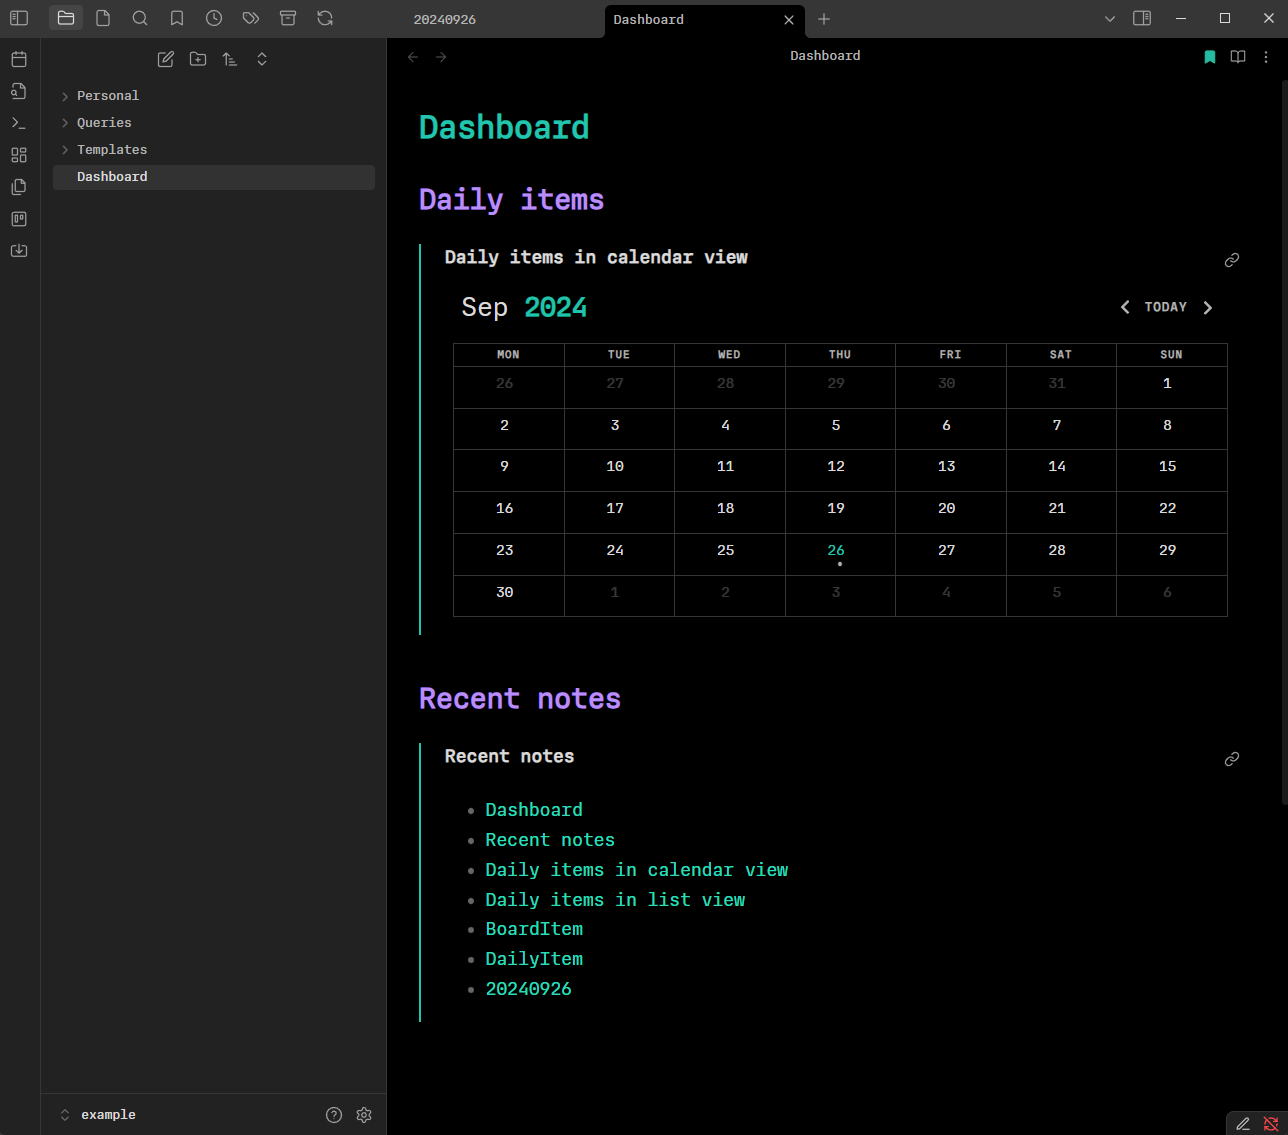
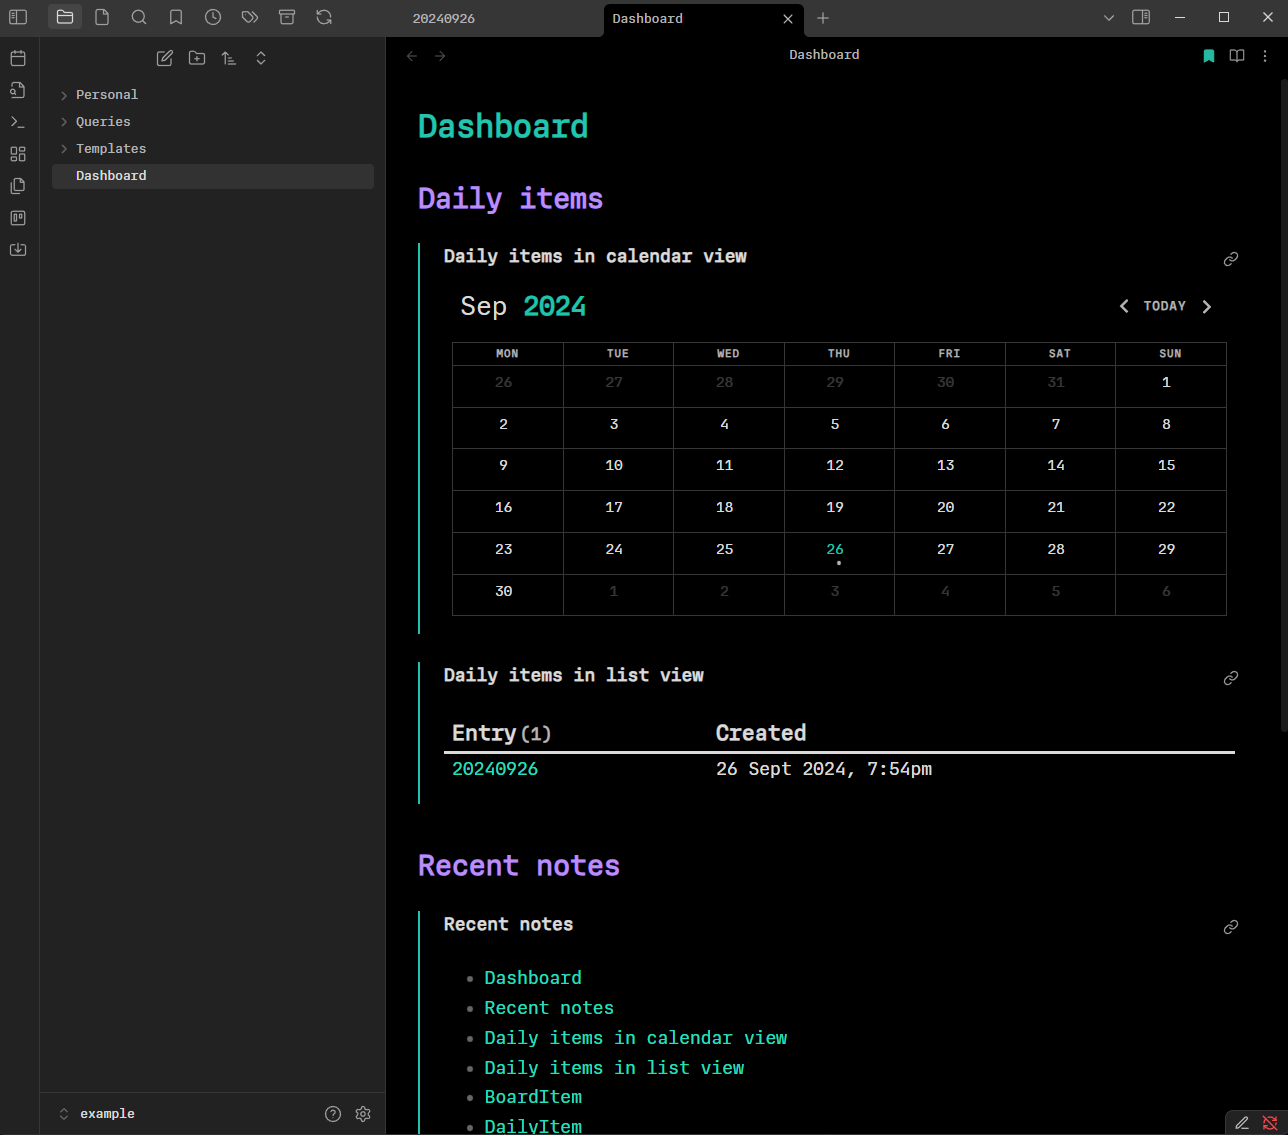
Update dashboard example

diff --git a/example/Dashboard.md b/example/Dashboard.md
@@ -2,6 +2,8 @@
 
 ![[Daily items in calendar view]]
 
+![[Daily items in list view]]
+
 ## Recent notes
 
 ![[Recent notes]]
